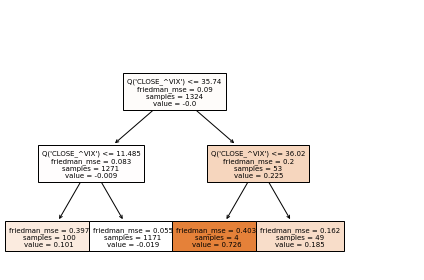
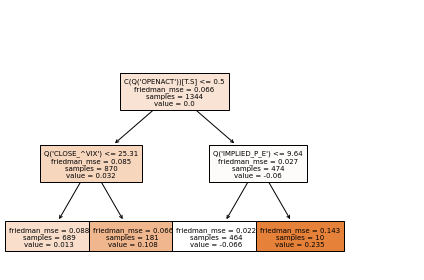
fixed explanations with earlier matplotlib

diff --git a/P1-AnalyzeTrades/P1-AnalyzeTrades_e_feateng.py b/P1-AnalyzeTrades/P1-AnalyzeTrades_e_feateng.py
@@ -106,6 +106,19 @@ class Numerizer(TransformerMixin):
     def transform(self, X):
         Y = X.apply(pd.to_numeric, errors='coerce')
         return Y
+    
+class StringTransformer(TransformerMixin):
+    import pandas as pd
+    
+    def __init__(self):
+        pass
+
+    def fit(self, X, y=None):
+        return self
+
+    def transform(self, X):
+        Y = pd.DataFrame(X).astype('string')
+        return Y
 
 # %%
 ## create na pipeline
@@ -131,7 +144,13 @@ numeric_features = list(set(numeric_features))
 numeric_transformer = Pipeline(
     steps=[
         ('numerizer', Numerizer()),          
-        ('imputer', SimpleImputer(strategy='constant', fill_value = 0)),
+        ('imputer', SimpleImputer(strategy='constant', fill_value = -1)),
+    ]
+)
+categorical_transformer = Pipeline(
+    steps=[          
+        ('imputer', SimpleImputer(strategy='constant', fill_value = '_NA_')),
+        ('stringtransformer', StringTransformer()),    
     ]
 )
 
@@ -142,18 +161,21 @@ numeric_transformer = Pipeline(
 #     ('imputer', SimpleImputer(strategy='constant', fill_value='missing')),
 #     ('onehot', OneHotEncoder(handle_unknown='ignore'))])
 
+categorical_features = list(set(df_XY.columns).difference(set(numeric_features)))
+
 preprocessor_na = ColumnTransformer(
     transformers=[
-        ('num', numeric_transformer, numeric_features)  
+        ('num', numeric_transformer, numeric_features) ,
+        ('cat', categorical_transformer, categorical_features)          
     ], 
-    remainder = 'passthrough'
+    # remainder = 'passthrough' # not needed anymore
 )
 
 XY_imputed = preprocessor_na.fit_transform(df_XY)
 
 columns =get_feature_names(preprocessor_na)
 
-df_XY_imputed = pd.DataFrame(XY_imputed,columns=columns)
+df_XY_imputed = pd.DataFrame(XY_imputed,columns=columns).convert_dtypes()
 
 
 # %% 

diff --git a/P1-AnalyzeTrades/P1-AnalyzeTrades_f_buildmodel.py b/P1-AnalyzeTrades/P1-AnalyzeTrades_f_buildmodel.py
@@ -61,6 +61,7 @@ df_XY = pd.read_csv('output/e_resultcleaned.csv')
 ## variables
 
 target = 'PCT_RET_FINAL'
+# manually selected from design (exposure) matrix ,  TODO automate
 variables = [
     # 'UNNAMED:_0', 'UNNAMED:_0_X', 'UNNAMED:_0.1', 'QUANTITY', 'PNL',
     # 'OPEN_PRICE', 'CLOSE_PRICE', 'COMM_TOT', 'QTYCHG', 'PRICE',
@@ -81,11 +82,13 @@ variables = [
     # 'IMPLIED_P_E',
     # 'YEARS_TO_NORMALIZATION', 
     # 'OPEN_DATE', 'CLOSE_DATE', 'SYMBOL',
-    # 'OPENACT', 'CLOSEACT', 'DATE', 'ACTION', 'TIME', 'UNNAMED:_6',
+    'OPENACT',
+    # 'CLOSEACT', 'DATE', 'ACTION', 'TIME', 'UNNAMED:_6',
     # 'UNNAMED:_8', 'CASH_CHG_(PNL)', 'COMMENTS', 'PCTRETURN', 'STARTDATE',
     # 'COMPANY_NAME_(IN_ALPHABETICAL_ORDER)', 'TICKER', 'CURRENT_PRICE',
     # 'AT_PRICE', 'TARGET', 'EPS1', 'EPS2', 'FYEND', 'LASTUPDATED',
-    # 'CATEGORY', 'COMMENTS.1', 'FILENAME', 'DATE_', 'AAII_SENT_DATE',
+    'CATEGORY', 
+    # 'COMMENTS.1', 'FILENAME', 'DATE_', 'AAII_SENT_DATE',
     # 'PCT_RET_FINAL'
 ]
 
@@ -96,6 +99,7 @@ varlist = []
 cols_num = df_XY.select_dtypes(include='number').columns
 idx = 0
 
+# create variable string 
 for v in variables:
     if idx != 0:
         varlist.append('+')
@@ -121,6 +125,11 @@ varstring = ''.join(varlist)
 formula =  f""" {target} ~ 1 + {varstring}"""
         
 y , X = dmatrices(formula, df_XY, return_type='dataframe')
+
+# check rows are aligned
+
+assert X.shape[0] == df_XY.shape[0] , 'rows mismatched, probably due to NAs'
+
 
 # %% 
 # train test data
@@ -277,7 +286,7 @@ def score_estimator(
 #     return 
 
 # %%
-## fit model_1 boosting
+## fit model_1 boosting w optional tuning
 
 mlflow.end_run()
 mlflow.start_run(run_name='sklearn_gbm')

diff --git a/P1-AnalyzeTrades/P1-AnalyzeTrades_g_explainmodel.py b/P1-AnalyzeTrades/P1-AnalyzeTrades_g_explainmodel.py
@@ -40,7 +40,7 @@ import dill
 # mlflow.set_tracking_uri('')
 
 # Research tracking
-runid = '993aac766d164995bad3e1225fa78ef7'
+runid = 'c5415cb2c7d1475eac140803f5e6c857'
 mlflow.set_tracking_uri('file:C:/Stuff/OneDrive/MLflow')
 
 experiment_name = 'P1-AnalyzeTrades_f_core'

diff --git a/P1-AnalyzeTrades/README.md b/P1-AnalyzeTrades/README.md
@@ -33,9 +33,8 @@ C4 style approach, see README puml files and pngs
 1. read in portfolio and trades from IB activity statement (tradelog..py)
 1. append own characteristics
 1. append market data
-1. build models
-1. pickle file & show inputs via mlflow
-1. validation exhibits
+1. build models (f_buildmodel), pickle file & show inputs via mlflow
+1. validation exhibits (g_explainmodel)
 1. test estimated predicted return for single record
 1. **decide best model** by copying run from local mlflow to repo mlflow and update `app.py`
 1. **update requirements in P1- folder** by running `pipenv lock --keep-outdated -d -r > ../requirements.txt` outside virtual env and copying to P1-... folder
